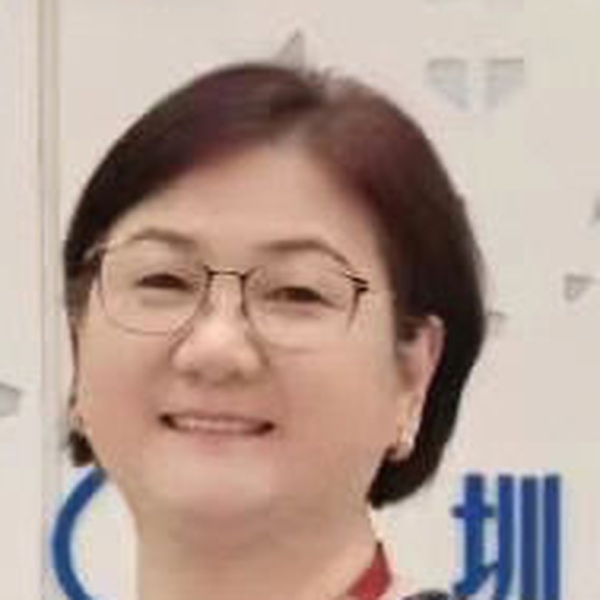
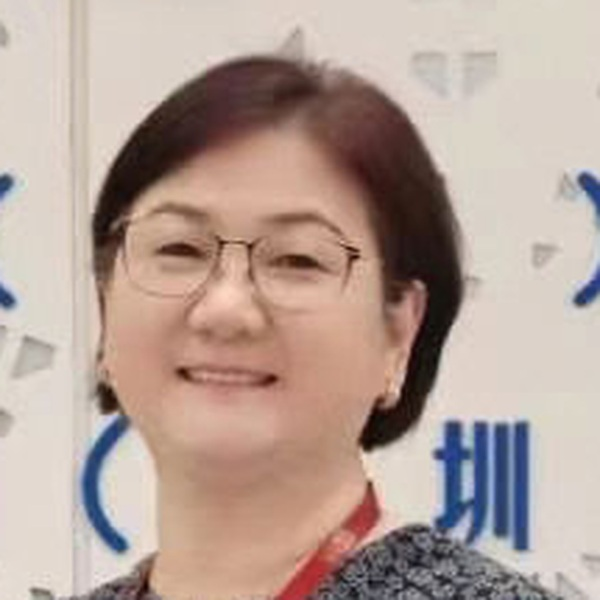
update image

diff --git a/assets/css/main.css b/assets/css/main.css
@@ -1257,37 +1257,37 @@ table th {
 }
 
 .page-committees .committee-ref-grid.cols-1 {
-  max-width: 280px;
+  max-width: 300px;
 }
 
 .page-committees .committee-ref-grid.cols-2 {
-  max-width: 518px;
+  max-width: 578px;
 }
 
 .page-committees .committee-ref-grid.cols-3 {
-  max-width: 726px;
+  max-width: 816px;
 }
 
 .page-committees .committee-ref-grid.cols-4 {
-  max-width: 934px;
+  max-width: 1094px;
 }
 
 .page-committees .committee-ref-person {
-  flex: 0 1 220px;
+  flex: 0 1 260px;
   padding: 16px 14px 18px;
   text-align: center;
 }
 
 .page-committees .committee-ref-grid.cols-1 .committee-ref-person {
-  flex-basis: 280px;
+  flex-basis: 300px;
 }
 
 .page-committees .committee-ref-grid.cols-2 .committee-ref-person {
-  flex-basis: 250px;
+  flex-basis: 280px;
 }
 
 .page-committees .committee-ref-grid.cols-3 .committee-ref-person {
-  flex-basis: 230px;
+  flex-basis: 260px;
 }
 
 .page-committees .committee-ref-section:nth-of-type(3n+1) .committee-ref-title {
@@ -1369,9 +1369,10 @@ table th {
 
 .page-committees .committee-ref-name {
   margin-bottom: 6px;
-  font-size: 24px;
+  font-size: 21px;
   line-height: 1.25;
   font-weight: 700;
+  white-space: nowrap;
   color: var(--heading-color);
 }
 
@@ -1436,15 +1437,15 @@ table th {
   }
 
   .page-committees .committee-ref-grid.cols-4 {
-    max-width: 696px;
+    max-width: 816px;
   }
 
   .page-committees .committee-ref-grid.cols-3 {
-    max-width: 696px;
+    max-width: 816px;
   }
 
   .page-committees .committee-ref-grid.cols-3 .committee-ref-person {
-    flex-basis: 220px;
+    flex-basis: 260px;
   }
 
   .page-committees .committee-ref-title {
@@ -1790,7 +1791,7 @@ table th {
   }
 
   .page-committees .committee-ref-name {
-    font-size: 22px;
+    font-size: 19px;
   }
 
   .page-committees .committee-ref-affiliation {
@@ -1800,16 +1801,16 @@ table th {
 
 @media (min-width: 576px) and (max-width: 991px) {
   .page-committees .committee-ref-grid.cols-4 {
-    max-width: 458px;
+    max-width: 538px;
   }
 
   .page-committees .committee-ref-grid.cols-3 {
-    max-width: 458px;
+    max-width: 538px;
   }
 }
 
 @media (min-width: 576px) and (max-width: 767px) {
   .page-committees .committee-ref-grid.cols-2 {
-    max-width: 250px;
+    max-width: 280px;
   }
 }

diff --git a/committees.html b/committees.html
@@ -119,9 +119,9 @@
         <h2 class="committee-ref-title">General Chair</h2>
         <div class="committee-ref-grid cols-1">
           <div class="committee-ref-person">
-            <img class="committee-ref-photo" src="assets/img/committees/portraits/jason-gu.jpg" alt="Jason Gu">
-            <div class="committee-ref-name">Jason Gu</div>
-            <div class="committee-ref-affiliation">Dalhousie University, Canada</div>
+            <img class="committee-ref-photo" src="assets/img/committees/portraits/gu-j-jason.jpg" alt="GU J. Jason">
+            <div class="committee-ref-name">GU J. Jason</div>
+            <div class="committee-ref-affiliation">Dalhousie Univ., Canada</div>
           </div>
         </div>
       </section>
@@ -166,8 +166,8 @@
         <h2 class="committee-ref-title">Program Chair</h2>
         <div class="committee-ref-grid cols-1">
           <div class="committee-ref-person">
-            <img class="committee-ref-photo" src="assets/img/committees/portraits/jiankun-wang.jpg" alt="Jiankun Wang">
-            <div class="committee-ref-name">Jiankun Wang</div>
+            <img class="committee-ref-photo" src="assets/img/committees/portraits/wang-jiankun.jpg" alt="WANG Jiankun">
+            <div class="committee-ref-name">WANG Jiankun, SUSTech</div>
             <div class="committee-ref-affiliation">Southern University of Science and Technology, China</div>
           </div>
         </div>
@@ -356,7 +356,7 @@
         <h2 class="committee-ref-title">Financial Chair</h2>
         <div class="committee-ref-grid cols-1">
           <div class="committee-ref-person">
-            <img class="committee-ref-photo" src="assets/img/committees/portraits/tingcui-yan.jpg" alt="YAN Tingcui">
+            <img class="committee-ref-photo" src="assets/img/committees/portraits/yan-tingcui.jpg" alt="YAN Tingcui">
             <div class="committee-ref-name">YAN Tingcui</div>
             <div class="committee-ref-affiliation">SUSTech</div>
           </div>

diff --git a/scripts/generate_committee_portraits.py b/scripts/generate_committee_portraits.py
@@ -25,6 +25,9 @@ PORTRAIT_OVERRIDES = {
     "zhao-lian": {
         "allow_width_padding": True,
     },
+    "li-aili": {
+        "size_scale": 1.90,
+    },
 }
 
 